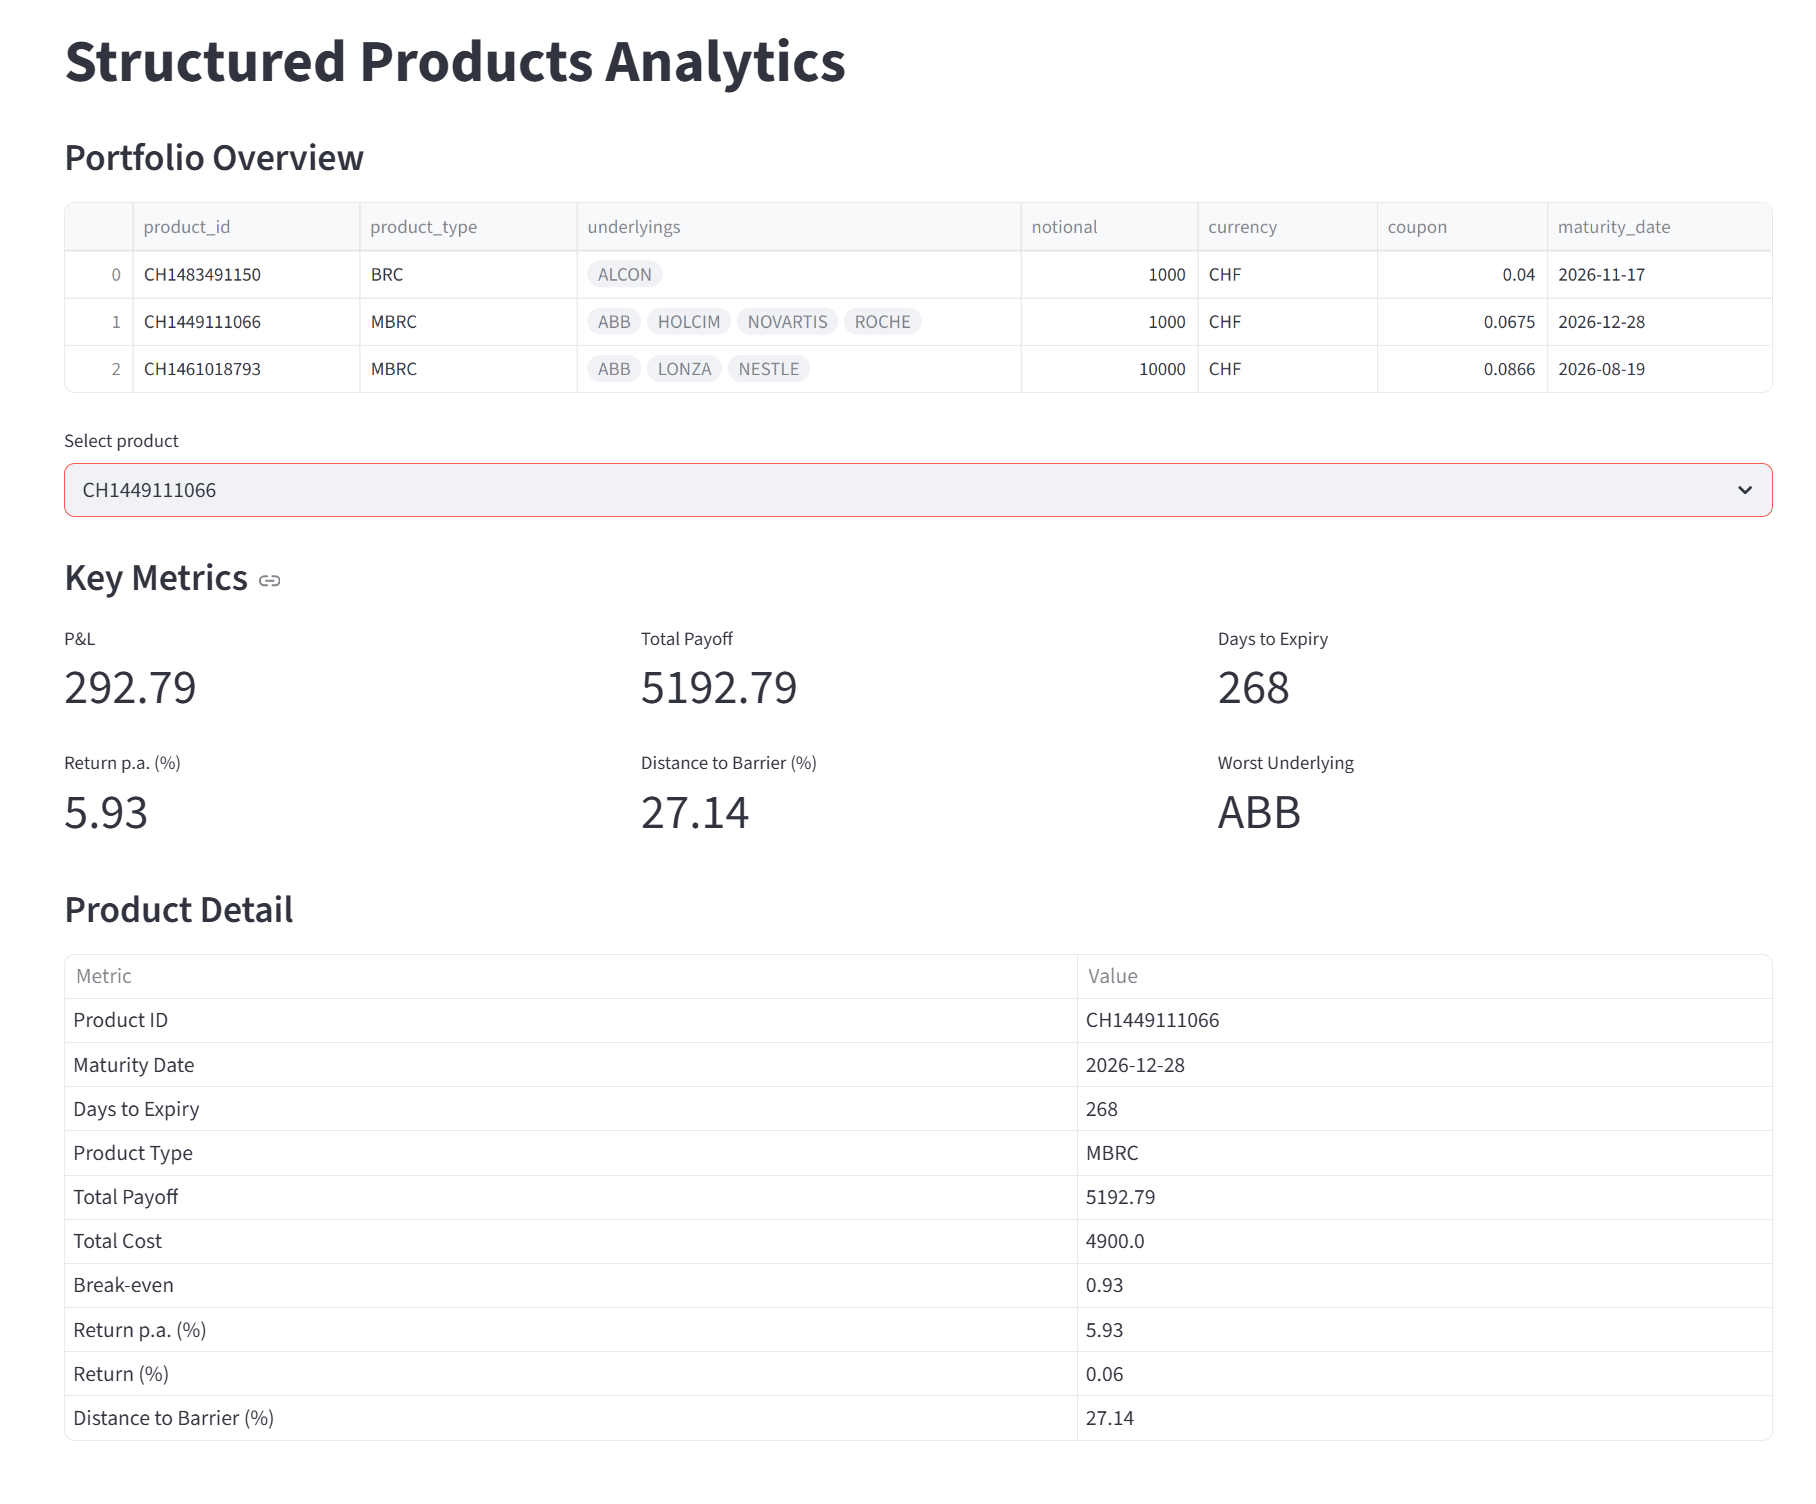
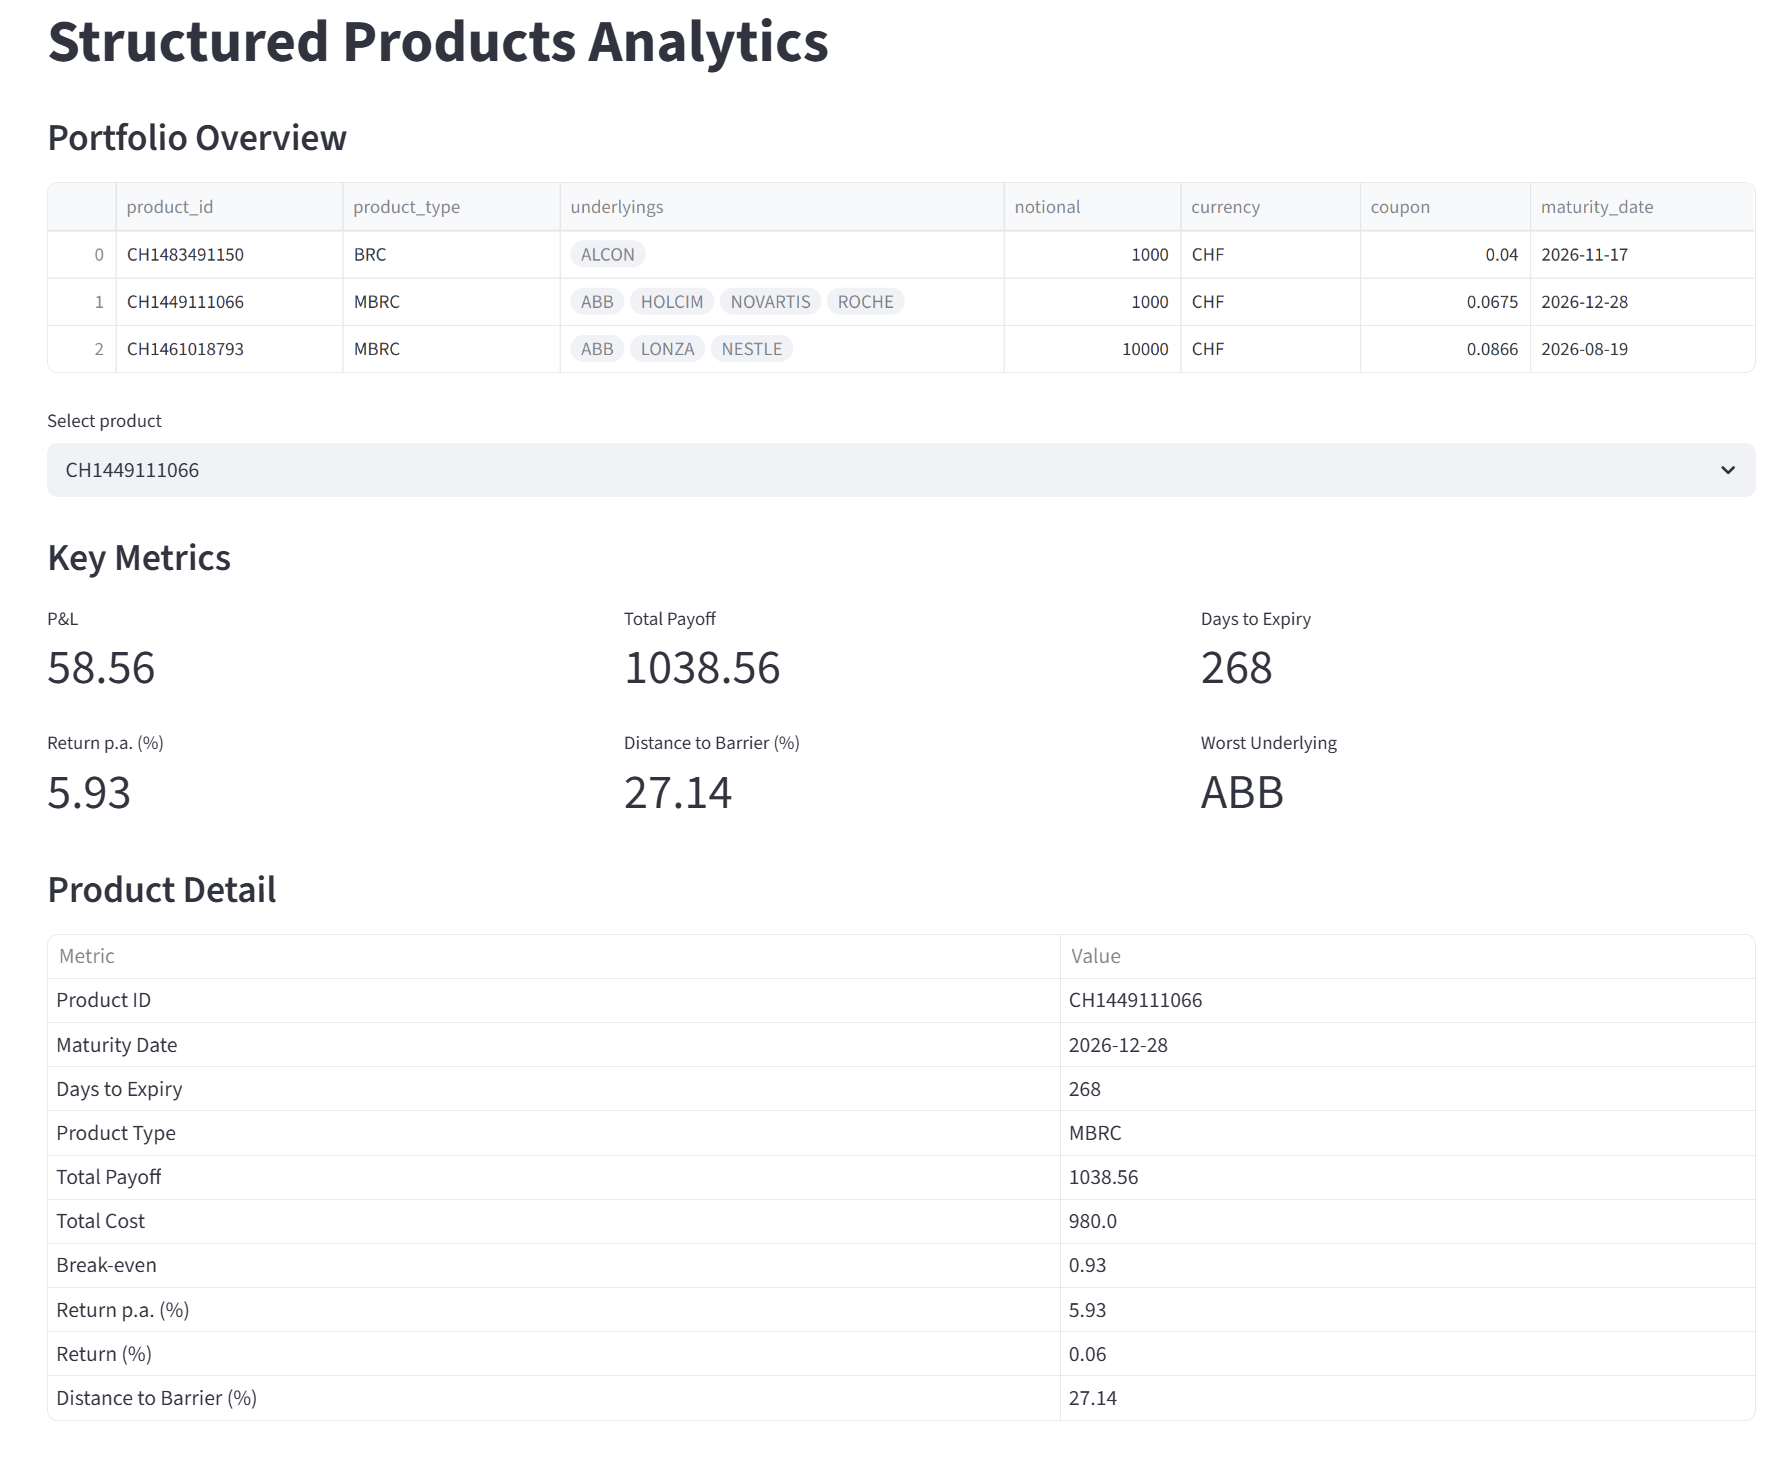
fig again

diff --git a/src/reverse_convertible.py b/src/reverse_convertible.py
@@ -99,14 +99,14 @@ class ReverseConvertible:
         T_total = self.total_product_time()
         return self.notional * self.coupon * T_total
     
-    def payoff_per_unit(self):
+    def payoff(self):
         return self.redemption() + self.coupon_payment()
     
     def total_payoff(self):
-        return self.payoff_per_unit() * self.position_units
+        return self.payoff()
     
     def total_cost(self):
-        return self.position_units * self.notional * self.cost_price
+        return self.notional * self.cost_price
     
     def pnl(self):
         return self.total_payoff() - self.total_cost()
@@ -162,7 +162,7 @@ class ReverseConvertible:
             "performance": self.performance() - 1,
             "barrier_breached": self.barrier_breached(),
             "worst_underlying": self.worst_underlying(),
-            "payoff_per_unit": self.payoff_per_unit(),
+            "payoff_per_unit": self.payoff()/self.position_units,
             "total_payoff": self.total_payoff(),
             "total_cost": self.total_cost(),
             "pnl": self.pnl(),

diff --git a/app/streamlit_app.py b/app/streamlit_app.py
@@ -23,7 +23,7 @@ p1 = {
     "underlyings": ["ALCON"],
     "underlying_isins": ["CH0432492467"],
     "currency": "CHF",
-    "position_units": 10,
+    "position_units": 1,
     "notional": 1000,
     "cost_price": 1.00,
     "initial_levels": [59.72],
@@ -48,7 +48,7 @@ p2 = {
         "CH0012032048"
     ],
     "currency": "CHF",
-    "position_units": 5,
+    "position_units": 1,
     "notional": 1000,
     "cost_price": 0.98,
     "initial_levels": [35.00, 70.00, 90.00, 250.00],
@@ -68,7 +68,7 @@ p3 = {
     "underlyings": ["ABB", "LONZA", "NESTLE"],
     "underlying_isins": ["CH0012221716", "CH0013841017", "CH0038863350"],
     "currency": "CHF",
-    "position_units": 1,
+    "position_units": 10,
     "notional": 10000,
     "cost_price": 1.00,
     "initial_levels": [53.94, 555.20, 72.49],
